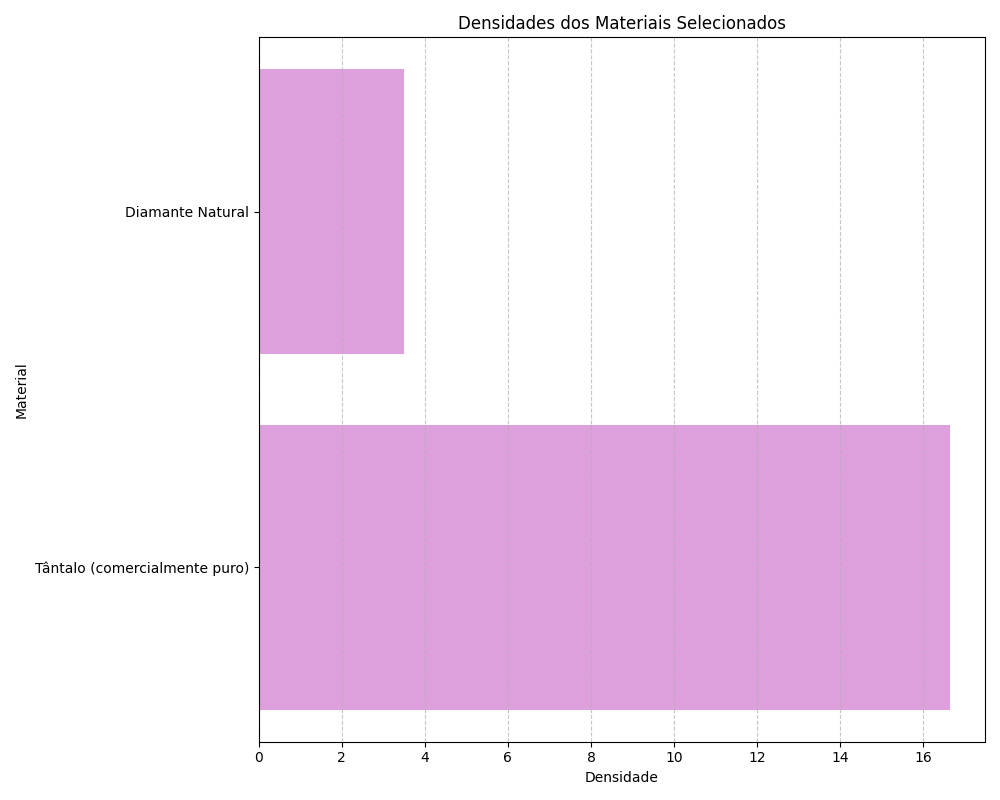
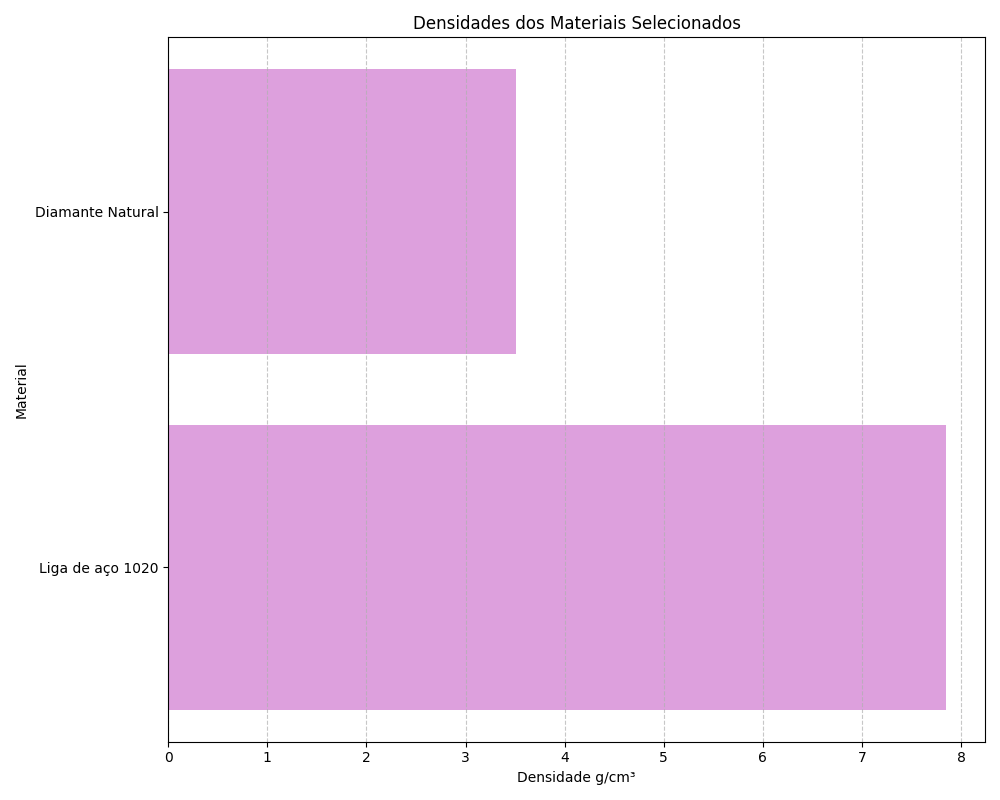
Atualização de legendas
Novas legendas para densidade em app.py

diff --git a/app.py b/app.py
@@ -4,29 +4,40 @@ import matplotlib.pyplot as plt
 
 app = Flask(__name__)
 
+
 # Csv file
 def read_and_process_csv(file_path):
     try:
         df = pd.read_csv(file_path, encoding='utf-8')
-        print("Colunas no DataFrame:", df.columns)  # Adicione esta linha para verificar os nomes das colunas
-        
-        required_columns = ['Massa Específica (g/cm³)', 'Módulo de elasticidade(Gpa)']
+        print("Colunas no DataFrame:", df.columns
+              )  # Adicione esta linha para verificar os nomes das colunas
+
+        required_columns = [
+            'Massa Específica (g/cm³)', 'Módulo de elasticidade(Gpa)'
+        ]
         for col in required_columns:
             if col not in df.columns:
                 raise ValueError(f"Coluna {col} não encontrada no arquivo CSV")
-        
+
         df = df.dropna(subset=required_columns)
-        df['Massa Específica (g/cm³)'] = df['Massa Específica (g/cm³)'].str.replace(',', '.').astype(float)
-        df['Módulo de elasticidade(Gpa)'] = df['Módulo de elasticidade(Gpa)'].astype(float)
-        df['Coeficiente de Poisson'] = df['Coeficiente de Poisson'].str.replace(',', '.').astype(float)
-        df['Coeficiente de expansão térmica(10^-6 °C^-1)'] = df['Coeficiente de expansão térmica(10^-6 °C^-1)'].str.replace(',', '.').astype(float)
-        df['Calor específico J/kg.K'] = df['Calor específico J/kg.K'].astype(float)
+        df['Massa Específica (g/cm³)'] = df[
+            'Massa Específica (g/cm³)'].str.replace(',', '.').astype(float)
+        df['Módulo de elasticidade(Gpa)'] = df[
+            'Módulo de elasticidade(Gpa)'].astype(float)
+        df['Coeficiente de Poisson'] = df[
+            'Coeficiente de Poisson'].str.replace(',', '.').astype(float)
+        df['Coeficiente de expansão térmica(10^-6 °C^-1)'] = df[
+            'Coeficiente de expansão térmica(10^-6 °C^-1)'].str.replace(
+                ',', '.').astype(float)
+        df['Calor específico J/kg.K'] = df['Calor específico J/kg.K'].astype(
+            float)
         df['Densidade'] = df['Densidade'].astype(float)
         return df
     except Exception as e:
         print(f"Erro ao ler e processar o arquivo CSV: {e}")
         return None
-      
+
+
         # //plot_coeficiente_poisson
 def plot_coeficiente_poisson(df, materials_list):
     if materials_list[0] == '' and materials_list[1] == '':
@@ -34,7 +45,7 @@ def plot_coeficiente_poisson(df, materials_list):
             top_8 = df.nlargest(8, 'Coeficiente de Poisson')
             materials = top_8['Material']
             coeficiente_poisson = top_8['Coeficiente de Poisson']
-            
+
             plt.figure(figsize=(10, 8))
             plt.barh(materials, coeficiente_poisson, color='salmon')
             plt.xlabel('Coeficiente de Poisson')
@@ -49,10 +60,11 @@ def plot_coeficiente_poisson(df, materials_list):
     else:
         try:
             df_filtered = df[df['Material'].isin(materials_list)]
-            df_filtered = df_filtered.sort_values(by='Coeficiente de Poisson', ascending=False)
+            df_filtered = df_filtered.sort_values(by='Coeficiente de Poisson',
+                                                  ascending=False)
             materials = df_filtered['Material']
             coeficiente_poisson = df_filtered['Coeficiente de Poisson']
-            
+
             plt.figure(figsize=(10, 8))
             plt.barh(materials, coeficiente_poisson, color='salmon')
             plt.xlabel('Coeficiente de Poisson')
@@ -65,19 +77,25 @@ def plot_coeficiente_poisson(df, materials_list):
         except Exception as e:
             print(f"Erro ao plotar Coeficiente de Poisson: {e}")
 
+
 # //plot_coeficiente_expansao_termica
 def plot_coeficiente_expansao_termica(df, materials_list):
     if materials_list[0] == '' and materials_list[1] == '':
         try:
-            top_8 = df.nlargest(8, 'Coeficiente de expansão térmica(10^-6 °C^-1)')
+            top_8 = df.nlargest(
+                8, 'Coeficiente de expansão térmica(10^-6 °C^-1)')
             materials = top_8['Material']
-            coeficiente_expansao_termica = top_8['Coeficiente de expansão térmica(10^-6 °C^-1)']
-            
+            coeficiente_expansao_termica = top_8[
+                'Coeficiente de expansão térmica(10^-6 °C^-1)']
+
             plt.figure(figsize=(10, 8))
-            plt.barh(materials, coeficiente_expansao_termica, color='lightcoral')
+            plt.barh(materials,
+                     coeficiente_expansao_termica,
+                     color='lightcoral')
             plt.xlabel('Coeficiente de expansão térmica(10^-6 °C^-1)')
             plt.ylabel('Material')
-            plt.title('Top 8 Maiores Coeficientes de Expansão Térmica dos Materiais')
+            plt.title(
+                'Top 8 Maiores Coeficientes de Expansão Térmica dos Materiais')
             plt.grid(axis='x', linestyle='--', alpha=0.7)
             plt.tight_layout()
             plt.savefig('static/images/graph_expansao.png')
@@ -87,21 +105,28 @@ def plot_coeficiente_expansao_termica(df, materials_list):
     else:
         try:
             df_filtered = df[df['Material'].isin(materials_list)]
-            df_filtered = df_filtered.sort_values(by='Coeficiente de expansão térmica(10^-6 °C^-1)', ascending=False)
+            df_filtered = df_filtered.sort_values(
+                by='Coeficiente de expansão térmica(10^-6 °C^-1)',
+                ascending=False)
             materials = df_filtered['Material']
-            coeficiente_expansao_termica = df_filtered['Coeficiente de expansão térmica(10^-6 °C^-1)']
-            
+            coeficiente_expansao_termica = df_filtered[
+                'Coeficiente de expansão térmica(10^-6 °C^-1)']
+
             plt.figure(figsize=(10, 8))
-            plt.barh(materials, coeficiente_expansao_termica, color='lightcoral')
+            plt.barh(materials,
+                     coeficiente_expansao_termica,
+                     color='lightcoral')
             plt.xlabel('Coeficiente de expansão térmica(10^-6 °C^-1)')
             plt.ylabel('Material')
-            plt.title('Coeficientes de Expansão Térmica dos Materiais Selecionados')
+            plt.title(
+                'Coeficientes de Expansão Térmica dos Materiais Selecionados')
             plt.grid(axis='x', linestyle='--', alpha=0.7)
             plt.tight_layout()
             plt.savefig('static/images/graph_expansao.png')
             plt.close()
         except Exception as e:
             print(f"Erro ao plotar Coeficiente de Expansão Térmica: {e}")
+
 
 # //plot_calor_especifico
 def plot_calor_especifico(df, materials_list):
@@ -110,7 +135,7 @@ def plot_calor_especifico(df, materials_list):
             top_8 = df.nlargest(8, 'Calor específico J/kg.K')
             materials = top_8['Material']
             calor_especifico = top_8['Calor específico J/kg.K']
-            
+
             plt.figure(figsize=(10, 8))
             plt.barh(materials, calor_especifico, color='gold')
             plt.xlabel('Calor específico J/kg.K')
@@ -125,10 +150,11 @@ def plot_calor_especifico(df, materials_list):
     else:
         try:
             df_filtered = df[df['Material'].isin(materials_list)]
-            df_filtered = df_filtered.sort_values(by='Calor específico J/kg.K', ascending=False)
+            df_filtered = df_filtered.sort_values(by='Calor específico J/kg.K',
+                                                  ascending=False)
             materials = df_filtered['Material']
             calor_especifico = df_filtered['Calor específico J/kg.K']
-            
+
             plt.figure(figsize=(10, 8))
             plt.barh(materials, calor_especifico, color='gold')
             plt.xlabel('Calor específico J/kg.K')
@@ -140,6 +166,8 @@ def plot_calor_especifico(df, materials_list):
             plt.close()
         except Exception as e:
             print(f"Erro ao plotar Calor Específico: {e}")
+
+
 # //plot_densidade
 def plot_densidade(df, materials_list):
     if materials_list[0] == '' and materials_list[1] == '':
@@ -147,10 +175,10 @@ def plot_densidade(df, materials_list):
             top_8 = df.nlargest(8, 'Densidade')
             materials = top_8['Material']
             densidade = top_8['Densidade']
-            
+
             plt.figure(figsize=(10, 8))
             plt.barh(materials, densidade, color='plum')
-            plt.xlabel('Densidade')
+            plt.xlabel('Densidade g/cm³')
             plt.ylabel('Material')
             plt.title('Top 8 Maiores Densidades dos Materiais')
             plt.grid(axis='x', linestyle='--', alpha=0.7)
@@ -162,13 +190,14 @@ def plot_densidade(df, materials_list):
     else:
         try:
             df_filtered = df[df['Material'].isin(materials_list)]
-            df_filtered = df_filtered.sort_values(by='Densidade', ascending=False)
+            df_filtered = df_filtered.sort_values(by='Densidade',
+                                                  ascending=False)
             materials = df_filtered['Material']
             densidade = df_filtered['Densidade']
-            
+
             plt.figure(figsize=(10, 8))
             plt.barh(materials, densidade, color='plum')
-            plt.xlabel('Densidade')
+            plt.xlabel('Densidade g/cm³')
             plt.ylabel('Material')
             plt.title('Densidades dos Materiais Selecionados')
             plt.grid(axis='x', linestyle='--', alpha=0.7)
@@ -178,7 +207,6 @@ def plot_densidade(df, materials_list):
         except Exception as e:
             print(f"Erro ao plotar Densidade: {e}")
 
-        
 
 # //plot_massa_especifica
 def plot_massa_especifica(df, materials_list):
@@ -187,7 +215,7 @@ def plot_massa_especifica(df, materials_list):
             top_8 = df.nlargest(8, 'Massa Específica (g/cm³)')
             materials = top_8['Material']
             massa_especifica = top_8['Massa Específica (g/cm³)']
-            
+
             plt.figure(figsize=(10, 8))
             plt.barh(materials, massa_especifica, color='skyblue')
             plt.xlabel('Massa Específica (g/cm³)')
@@ -202,10 +230,11 @@ def plot_massa_especifica(df, materials_list):
     else:
         try:
             df_filtered = df[df['Material'].isin(materials_list)]
-            df_filtered = df_filtered.sort_values(by='Massa Específica (g/cm³)', ascending=False)
+            df_filtered = df_filtered.sort_values(
+                by='Massa Específica (g/cm³)', ascending=False)
             materials = df_filtered['Material']
             massa_especifica = df_filtered['Massa Específica (g/cm³)']
-            
+
             plt.figure(figsize=(10, 8))
             plt.barh(materials, massa_especifica, color='skyblue')
             plt.xlabel('Massa Específica (g/cm³)')
@@ -217,6 +246,8 @@ def plot_massa_especifica(df, materials_list):
             plt.close()
         except Exception as e:
             print(f"Erro ao plotar Massa Específica: {e}")
+
+
 # //plot_modulo_elasticidade
 def plot_modulo_elasticidade(df, materials_list):
     if materials_list[0] == '' and materials_list[1] == '':
@@ -224,7 +255,7 @@ def plot_modulo_elasticidade(df, materials_list):
             top_8 = df.nlargest(8, 'Módulo de elasticidade(Gpa)')
             materials = top_8['Material']
             modulo_elasticidade = top_8['Módulo de elasticidade(Gpa)']
-            
+
             plt.figure(figsize=(10, 8))
             plt.barh(materials, modulo_elasticidade, color='lightgreen')
             plt.xlabel('Módulo de elasticidade(Gpa)')
@@ -239,10 +270,11 @@ def plot_modulo_elasticidade(df, materials_list):
     else:
         try:
             df_filtered = df[df['Material'].isin(materials_list)]
-            df_filtered = df_filtered.sort_values(by='Módulo de elasticidade(Gpa)', ascending=False)
+            df_filtered = df_filtered.sort_values(
+                by='Módulo de elasticidade(Gpa)', ascending=False)
             materials = df_filtered['Material']
             modulo_elasticidade = df_filtered['Módulo de elasticidade(Gpa)']
-            
+
             plt.figure(figsize=(10, 8))
             plt.barh(materials, modulo_elasticidade, color='lightgreen')
             plt.xlabel('Módulo de elasticidade(Gpa)')
@@ -253,13 +285,13 @@ def plot_modulo_elasticidade(df, materials_list):
             plt.savefig('static/images/graph_modulo.png')
             plt.close()
         except Exception as e:
-            print(f"Erro ao plotar Módulo de Elasticidade: {e}")       
+            print(f"Erro ao plotar Módulo de Elasticidade: {e}")
 
-    
 
 @app.route('/')
 def form():
     return render_template('form.html')
+
 
 @app.route('/generate-graph', methods=['POST'])
 def generate_graph():
@@ -269,19 +301,23 @@ def generate_graph():
 
     # Loop para pegar todos os elementos até que não haja mais entradas
     while f'elemento{i}' in request.form:
-        materials_list.append(request.form[f'elemento{i}'])    
+        materials_list.append(request.form[f'elemento{i}'])
         i += 1
-    
+
     selected_options = request.form.getlist('options')
     df = read_and_process_csv('BaseDeDados.csv')
     options = []
     for option in selected_options:
         options.append(option)
-    
+
     if df is not None:
         if not selected_options:
-            return render_template('form.html', error="Nenhuma opção foi selecionada. Por favor, selecione pelo menos uma opção.")
-        
+            return render_template(
+                'form.html',
+                error=
+                "Nenhuma opção foi selecionada. Por favor, selecione pelo menos uma opção."
+            )
+
         if 'massa' in selected_options:
             plot_massa_especifica(df, materials_list)
         if 'modulo' in selected_options:
@@ -294,8 +330,11 @@ def generate_graph():
             plot_calor_especifico(df, materials_list)
         if 'densidade' in selected_options:
             plot_densidade(df, materials_list)
-    
-    return render_template('view.html', selected_options=options, materials_list=materials_list)
+
+    return render_template('view.html',
+                           selected_options=options,
+                           materials_list=materials_list)
+
 
 if __name__ == '__main__':
     app.run(debug=True)
